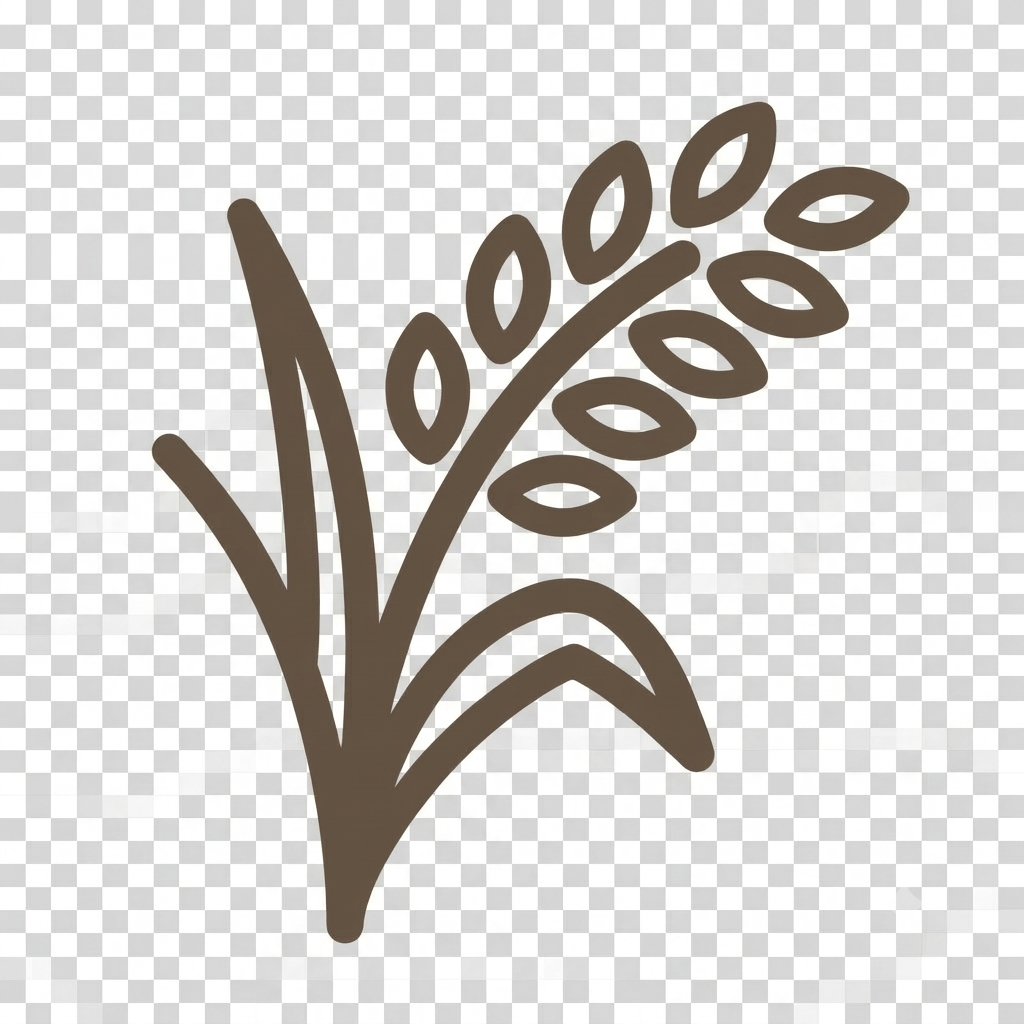
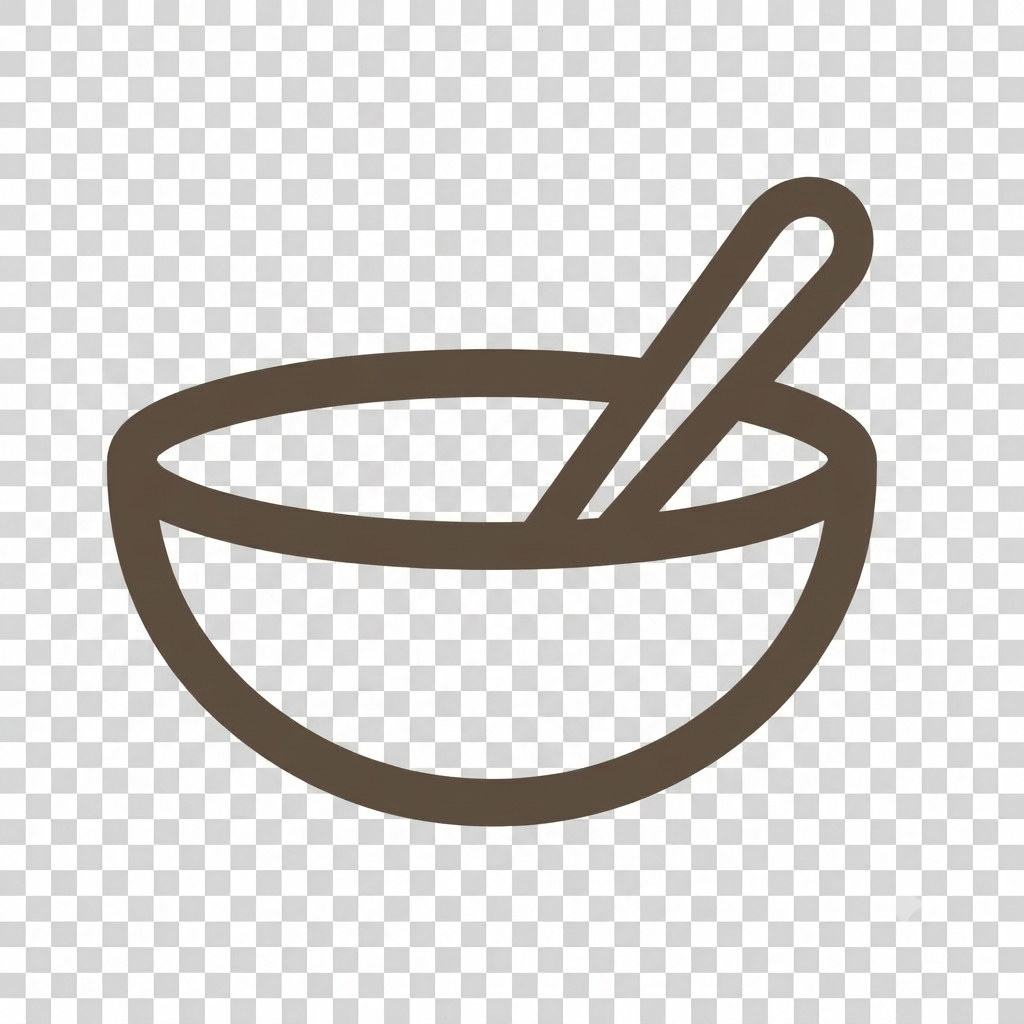
Add files via upload

diff --git a/index.html b/index.html
@@ -69,19 +69,19 @@
                         <div class="home-action-grid">
                             <!-- 1. 本漬けボタン -->
                             <button id="add-normal-btn" class="btn-add normal">
-                                <img src="img/01nukaduke_transparent.png" alt="本漬け" class="btn-icon-img">
+                                <img src="img/01nukaduke.jpg" alt="本漬け" class="btn-icon-img">
                             </button>
                             <!-- 2. 捨漬けボタン -->
                             <button id="add-sute-btn" class="btn-add sute">
-                                <img src="img/02suteduke_transparent.png" alt="捨漬け" class="btn-icon-img">
+                                <img src="img/02suteduke.jpg" alt="捨漬け" class="btn-icon-img">
                             </button>
                             <!-- 3. かき混ぜボタン -->
                             <button id="home-btn-mix" class="home-care-btn">
-                                <img src="img/03kakimaze_transparent.png" alt="かき混ぜ" class="btn-icon-img">
+                                <img src="img/03kakimaze.jpg" alt="かき混ぜ" class="btn-icon-img">
                             </button>
                             <!-- 4. 足しぬかボタン -->
                             <button id="home-btn-add-nuka" class="home-care-btn">
-                                <img src="img/04tashinuka_transparent.png" alt="足しぬか" class="btn-icon-img">
+                                <img src="img/04tashinuka.jpg" alt="足しぬか" class="btn-icon-img">
                             </button>
                         </div>
                     </div>

diff --git a/script.js b/script.js
@@ -440,7 +440,7 @@ function executeRemoveVegetable() {
     }
 
     const isSuteText = veg.isSute ? '【捨漬け】' : '';
-    addHistoryLog(veg.icon || '🥕', `${isSuteText}${veg.name}を取り出しました${timeText}`);
+    addHistoryLog(veg.icon || '🥕', `${isSuteText}${veg.name}を取り出しました<br>${timeText}`);
 
     vegHistory.unshift({
         id: Date.now(),
@@ -748,8 +748,21 @@ document.addEventListener('DOMContentLoaded', () => {
 
     // かき混ぜ確認モーダルの「混ぜた」ボタン
     document.getElementById('mix-modal-submit')?.addEventListener('click', () => {
-        lastMixTime = new Date();
-        addHistoryLog('👋🏼', 'ぬか床をかき混ぜました');
+        const now = new Date();
+        let elapsedText = '';
+
+        if (lastMixTime) {
+            const diffMs = now - new Date(lastMixTime);
+            const diffHours = Math.floor(diffMs / (1000 * 60 * 60));
+            elapsedText = `（前回から ${diffHours}時間）`;
+        }
+
+        // 時間を現在時刻に更新
+        lastMixTime = now;
+
+        // 履歴ログに経過時間を添えて保存
+        addHistoryLog('👋🏼', `ぬか床をかき混ぜました<br>${elapsedText}`);
+
         updateHomeCareDisplay();
         document.getElementById('mix-confirm-modal')?.classList.add('hidden');
     });

diff --git a/style.css b/style.css
@@ -616,10 +616,9 @@ body {
 }
 
 .btn-icon-img {
-    width: 28px;
-    height: 28px;
+    width: 30px;
+    height: 30px;
     object-fit: contain;
-    background: transparent;
 }
 
 .btn-add,
@@ -635,7 +634,7 @@ body {
     flex-direction: column;
     align-items: center;
     justify-content: center;
-    gap: 4px;
+    gap: 2px;
     width: 100%;
     border: 1.5px solid #d9c4b0;
     outline: none;
@@ -645,19 +644,19 @@ body {
 }
 
 .btn-add.normal {
-    background-color: #6b584a;
+    background-color: #D6C29E;
     color: #ffffff;
     border-color: #554437;
 }
 
 .btn-add.sute {
-    background-color: #d9c4b0;
+    background-color: #D6C29E;
     color: #4a3b32;
     border-color: #a88d77;
 }
 
 .home-care-btn {
-    background-color: #d9c4b0;
+    background-color: #D6C29E;
     color: #6b584a;
 }
 
